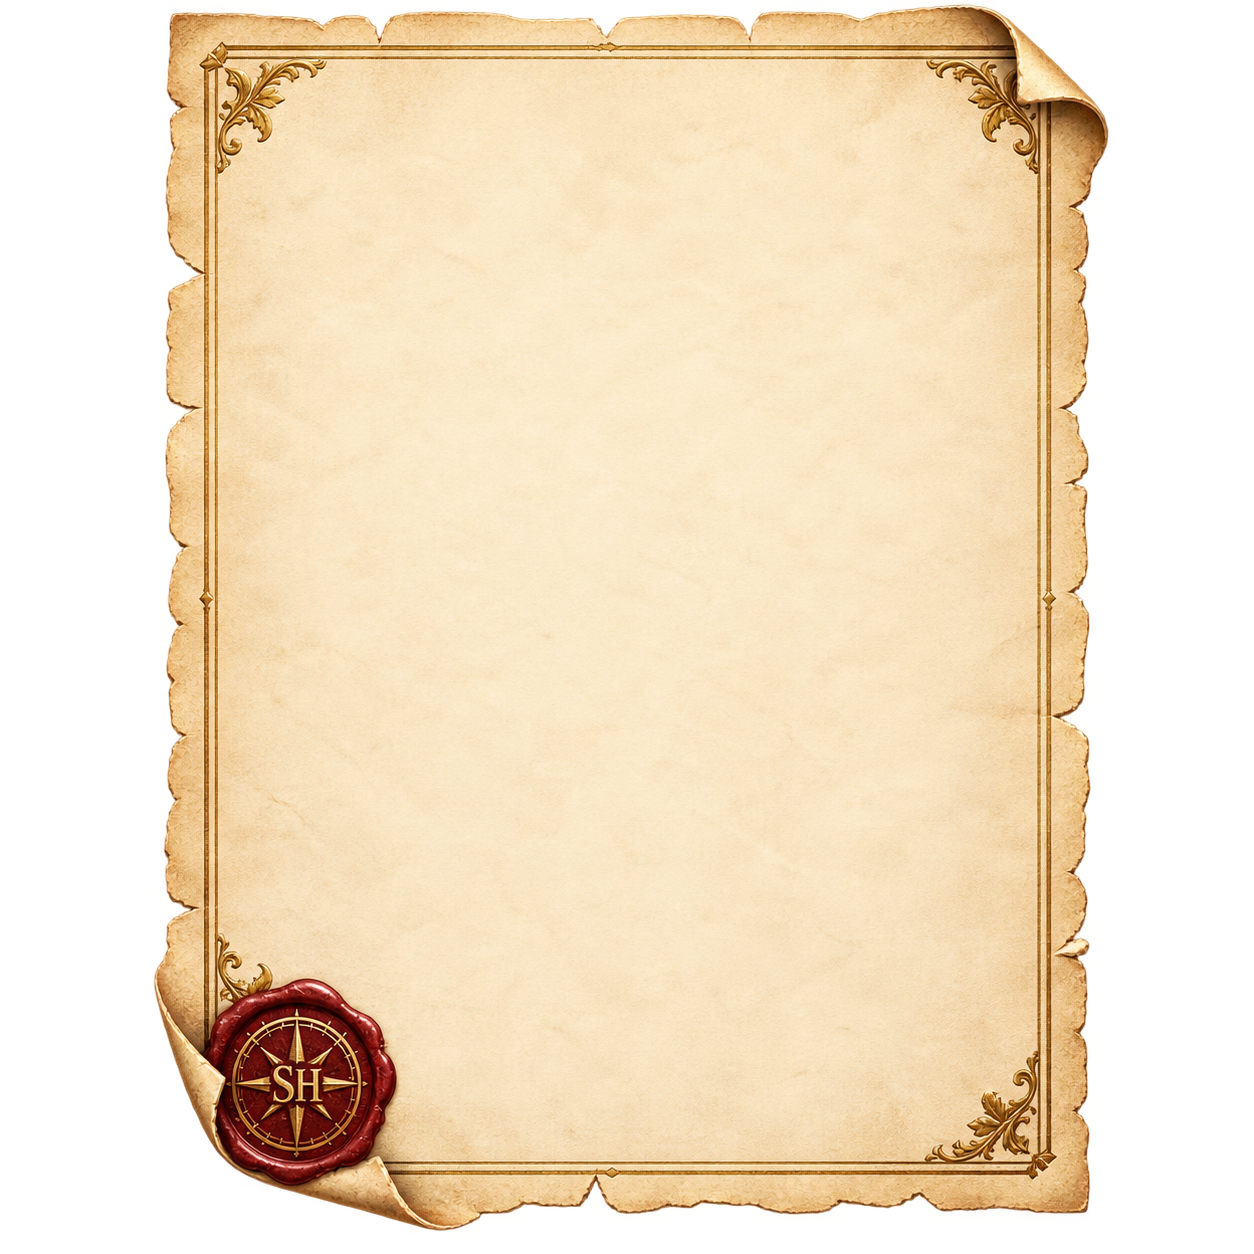
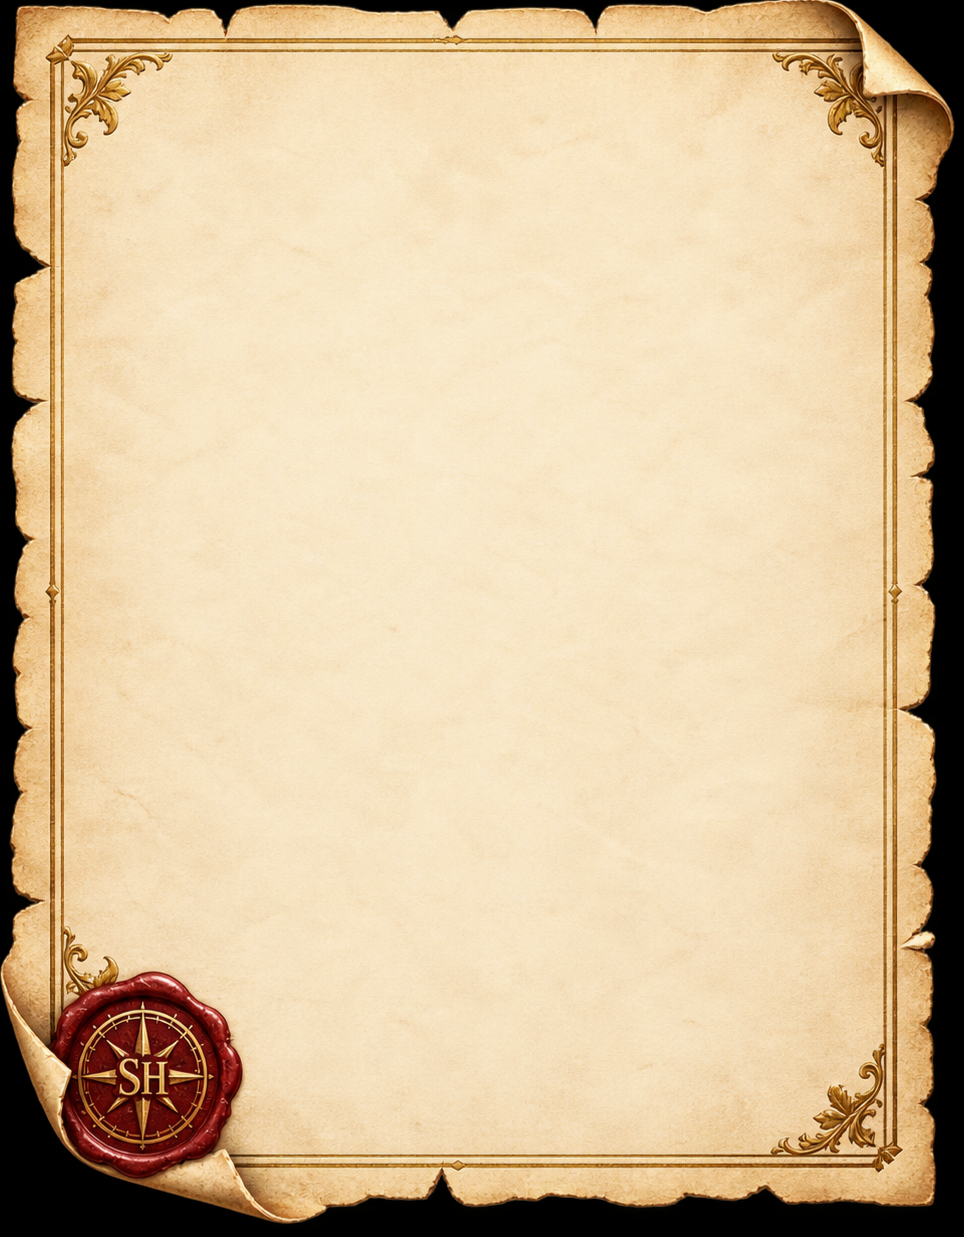
fix: quest board no longer stretches, cards match true parchment ratio
Board frame now scales via background-size:100% auto locked to its
1208:905 native ratio instead of border-image 9-slice, so it never
distorts regardless of container width; safe-area padding and card
padding are computed as exact percentages from the user's measured
board/parchment margins. Cards use aspect-ratio 955:1232 (the real
parchment proportions) instead of an arbitrary fixed box. Also fixes
mission titles overflowing card edges instead of wrapping (shrink-0
was preventing them from shrinking to fit the flex row).

diff --git a/components/events/QuestBoard.tsx b/components/events/QuestBoard.tsx
@@ -76,22 +76,20 @@ function QuestPaperCard({
   const angle = PAPER_ANGLES[index % PAPER_ANGLES.length];
   return (
     <div style={{ transform: `rotate(${angle}deg)` }} className="mx-auto w-full max-w-[260px]">
-      {/* Fixed size, not aspect-ratio-driven — the images are square
-       * (1254x1254), so a fixed square box keeps object-contain from
-       * letterboxing (which would throw off the padding below) while
-       * still giving every card the same footprint regardless of how
-       * much text it holds. */}
-      <div className={cn("relative w-full max-w-[260px] h-[340px] mx-auto", className)}>
+      {/* Locked to the parchment art's own 955:1232 ratio (aspect-ratio,
+       * not a fixed height) so the paper never letterboxes or stretches
+       * regardless of how wide the grid column ends up being. */}
+      <div className={cn("relative w-full max-w-[260px] mx-auto", className)} style={{ aspectRatio: "955 / 1232" }}>
         {/* The paper's own torn/burnt edges and corner ornaments (including a
          * wax seal that lands in a different corner per variant) are part of
-         * the art — generous padding keeps text and controls clear of all of
-         * them rather than clipping the image to a rectangle. */}
+         * the art — padding below matches the art's measured margins so
+         * text and controls stay clear of all of them. */}
         <Image src={paperSrc} alt="" fill sizes="260px" className="object-contain pointer-events-none select-none" />
-        <MissionInfoButton type={infoType} className="top-4 right-4" />
+        <MissionInfoButton type={infoType} className="top-[9%] right-[9%]" />
         {/* overflow-hidden + line-clamp on title/narrative instead of a
          * scrollbar — a rotated card with a native scrollbar looks broken,
          * and a graceful truncation reads better in a card grid anyway. */}
-        <div className="absolute inset-0 flex flex-col gap-1.5 px-9 pt-10 pb-12 overflow-hidden">
+        <div className="absolute inset-0 flex flex-col gap-1.5 pt-[15.71%] pr-[15.29%] pb-[12.36%] pl-[15.29%] overflow-hidden">
           {children}
         </div>
       </div>
@@ -186,7 +184,7 @@ export function QuestBoard({ eventId, individualMissions, groupMissions, loggedI
         return (
           <QuestPaperCard key={m.id} index={i} infoType="individual" className={state === "completed" ? "opacity-60" : undefined}>
             <div className="flex items-start justify-between gap-2 flex-wrap pr-7">
-              <p className="font-label text-sm font-semibold text-ink line-clamp-2 shrink-0">{m.title}</p>
+              <p className="font-label text-sm font-semibold text-ink line-clamp-2 min-w-0">{m.title}</p>
               <span className="font-label text-2xs uppercase tracking-wide px-1.5 py-0.5 rounded-sm bg-leather/10 text-leather">
                 {DIFFICULTY_LABELS[m.difficulty]}
               </span>
@@ -262,7 +260,7 @@ export function QuestBoard({ eventId, individualMissions, groupMissions, loggedI
             className={m.viewerRewarded ? "opacity-60" : undefined}
           >
             <div className="flex items-start justify-between gap-2 flex-wrap pr-7">
-              <p className="font-label text-sm font-semibold text-ink line-clamp-2 shrink-0">{m.title}</p>
+              <p className="font-label text-sm font-semibold text-ink line-clamp-2 min-w-0">{m.title}</p>
               <span className="font-label text-2xs uppercase tracking-wide px-1.5 py-0.5 rounded-sm bg-leather/10 text-leather">
                 {DIFFICULTY_LABELS[m.difficulty]}
               </span>

diff --git a/app/globals.css b/app/globals.css
@@ -71,22 +71,29 @@
 
   .text-balance { text-wrap: balance; }
 
-  /* Quest Board picture frame — a real 9-slice border-image (board.png),
-   * not a stretched <Image>: corners render at native size (never
-   * distorted), only the straight edges stretch to fit. Border width
-   * drops on small screens so the frame doesn't dominate a narrow card. */
+  /* Quest Board — background-image locked to its own 1208×905 aspect
+   * ratio via `background-size: 100% auto`, so it always scales
+   * uniformly with the container's width and never stretches/distorts,
+   * regardless of how tall the mission grid inside ends up being.
+   * `aspect-ratio` sets the board's natural preferred height (matches
+   * the image exactly when content fits in 2 rows); if more missions
+   * need more room, the container is free to grow taller — the extra
+   * space below the artwork just falls back to a plain leather tone. */
   .quest-board-frame {
-    border-style: solid;
-    border-width: 64px;
-    border-image-source: url("/images/board.png");
-    border-image-slice: 110 fill;
-    border-image-width: 64px;
-    border-image-repeat: stretch;
+    position: relative;
+    background-image: url("/images/board.png");
+    background-size: 100% auto;
+    background-repeat: no-repeat;
+    background-position: top center;
+    aspect-ratio: 1208 / 905;
   }
-  @media (max-width: 640px) {
-    .quest-board-frame {
-      border-width: 32px;
-      border-image-width: 32px;
-    }
+
+  /* Content safe-area inside the board, matching the artwork's own
+   * border widths (top 124 / right 56 / bottom 71 / left 56, out of a
+   * 1208px-wide source). Percentages resolve against the container's
+   * WIDTH for every side (a CSS quirk that applies to padding-top/
+   * bottom too), so this stays correct at any render size without JS. */
+  .quest-board-safe {
+    padding: 10.2649% 4.6358% 5.8775% 4.6358%;
   }
 }

diff --git a/app/events/[id]/page.tsx b/app/events/[id]/page.tsx
@@ -322,8 +322,8 @@ export default async function EventDetailPage({ params }: { params: { id: string
                       ? "Así quedaron las misiones de este evento."
                       : "Se van a poder activar cuando el evento empiece."}
                 </p>
-                <div className="quest-board-frame rounded-md">
-                  <div className="p-8">
+                <div className="quest-board-frame rounded-md overflow-hidden bg-leather">
+                  <div className="quest-board-safe">
                     <QuestBoard
                       eventId={typedEvent.id}
                       individualMissions={individualMissionItems}
